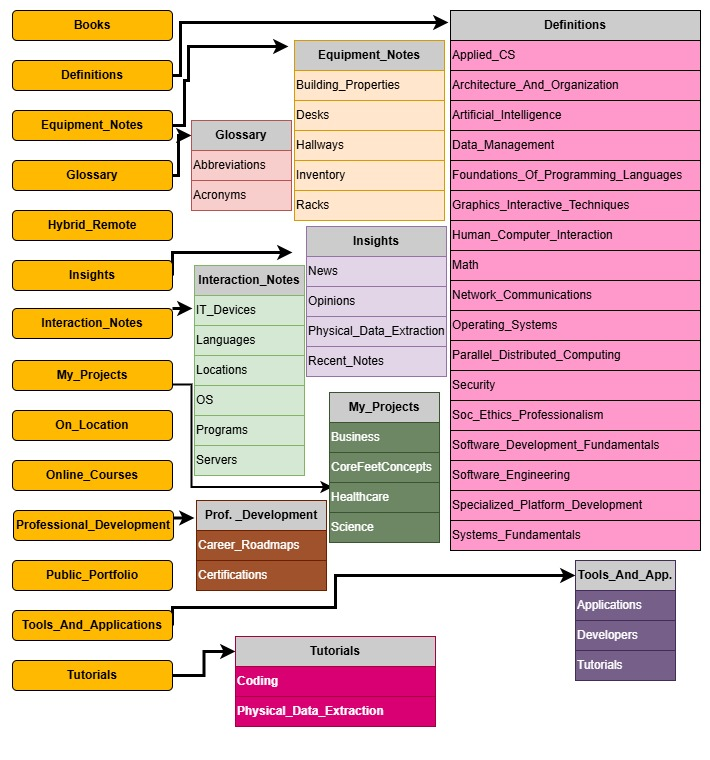
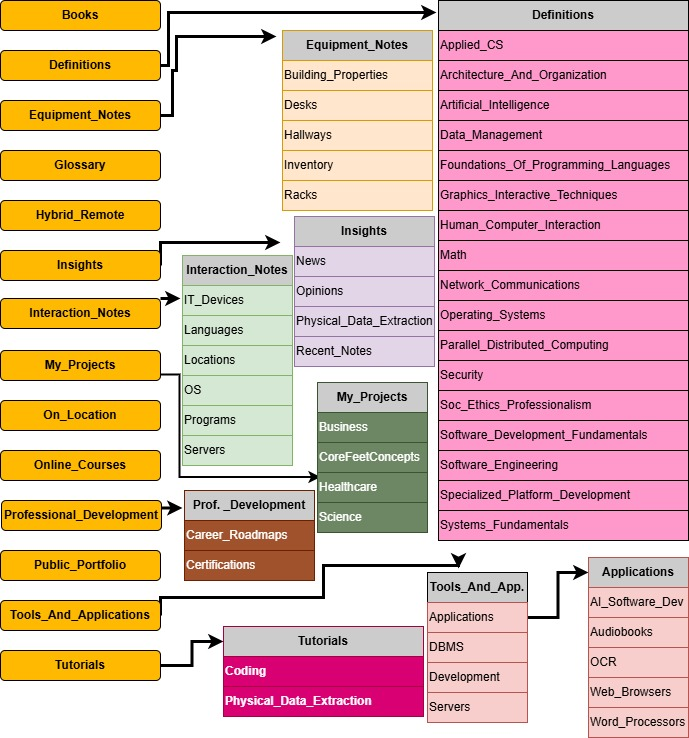
feat: Organize and expand repository structure

diff --git a/Home_Directory_README.md b/Home_Directory_README.md
@@ -16,12 +16,14 @@ This is my centralized knowledge base for computer science, technology, and rela
 
 * **Books:** Long articles, books, and manuals.
 * **Definitions:** Terminology categorized by subject (e.g., Math, Programming).
+* **Developer_Resources:** Central location for larger resource packages (e.g., code samples from books, assets from tutorials) and documentation derived from structured data.
+    * **Documentation:** `Developer_Resources/Documentation` subfolder contains documentation files (Markdown, HTML, PDF) generated from YAML files throughout this knowledge base, optimized for different use cases.
 * **Equipment_Notes:** Notes on hardware, building layouts, and inventory.
-* **SilverFox_Laptop/**: This directory contains all documentation specific to the "SilverFox" laptop.
-    * **Installation_Logs/**: Stores detailed logs of software installations, with each log file linked to its corresponding `.exe` installer.
-    * **OS_Environments/**: Houses specifications for virtual machines and development environments, and can also store `.iso` images of operating systems.
-    * **PATH_Variable_Snapshots/**: Contains snapshots of the `PATH` environment variable, both current and historical, for tracking changes.
-    * **Software_Installers/**: Stores the original installers for all software applications installed on the laptop.
+    * **SilverFox_Laptop**: This directory contains all documentation specific to the "SilverFox" laptop.
+        * **Installation_Logs**: Stores detailed logs of software installations, with each log file linked to its corresponding `.exe` installer.
+        * **OS_Environments**: Houses specifications for virtual machines and development environments, and can also store `.iso` images of operating systems.
+        * **PATH_Variable_Snapshots**: Contains snapshots of the `PATH` environment variable, both current and historical, for tracking changes.
+        * **Software_Installers**: Stores the original installers for all software applications installed on the laptop.
 * **Glossary:** A central glossary for all definitions.
 * **Hybrid_Remote:** Information related to hybrid work and courses.
 * **Insights:** News, opinions, and observations on various topics.
@@ -31,7 +33,11 @@ This is my centralized knowledge base for computer science, technology, and rela
 * **On_Location:** Information related to on-site work.
 * **Professional_Development:** Career planning, goals, and study materials.
 * **Public_Portfolio:** Portfolio and certifications.
-* **Tools_And_Applications:** Software information and tutorials.
+* **Tools_And_Applications:** This section provides information and tutorials related to various software tools and applications used in computer science and related fields. It is organized into the following subcategories:
+    * **Applications:** A categorized list of different software applications designed for specific user tasks (e.g., web browsers, word processors, media software).
+    * **Servers:** Documentation and information on available server software and related technologies.
+    * **Database Management Systems (DBMS):** Information on popular database management systems used for data storage and retrieval.
+    * **Development:** Utility tools and resources commonly used in software development, such as debuggers, command-line interfaces, and version control systems.
 * **Tutorials:** Tutorials on physical data extraction and coding.
 
 ## Scripts

diff --git a/folder_key_index.md b/folder_key_index.md
@@ -65,6 +65,8 @@ Definitions\Software_Engineering: DEFS-SE
 Definitions\Specialized_Platform_Development: DEFS-PLATFORM
 Definitions\Systems_Fundamentals: DEFS-SYS
 Definitions\Systems_Fundamentals\File_Formats: DEFS-SYS-FILES
+Developer_Resources: DEV-RES
+Developer_Resources\Documentation: DEV-RES-DOCS
 Equipment_Notes: EQUIP
 Equipment_Notes\Building_Properties: EQUIP-BUILD
 Equipment_Notes\Building_Properties\Building_A: EQUIP-BUILD-A
@@ -73,6 +75,13 @@ Equipment_Notes\Desks: EQUIP-DESKS
 Equipment_Notes\Hallways: EQUIP-HALLS
 Equipment_Notes\Inventory: EQUIP-INV
 Equipment_Notes\Racks: EQUIP-RACKS
+Equipment_Notes\SilverFox_Laptop: EQUIP-LAPTOP
+Equipment_Notes\SilverFox_Laptop\Installation_Logs: EQUIP-LAPTOP-LOGS
+Equipment_Notes\SilverFox_Laptop\OS_Environments: EQUIP-LAPTOP-OS
+Equipment_Notes\SilverFox_Laptop\OS_Environments\Linux_VM_Debian: EQUIP-LAPTOP-OS-LINUX
+Equipment_Notes\SilverFox_Laptop\OS_Environments\Windows11: EQUIP-LAPTOP-OS-WIN
+Equipment_Notes\SilverFox_Laptop\PATH_Variable_Snapshot: EQUIP-LAPTOP-PATH
+Equipment_Notes\SilverFox_Laptop\Software_Installers: EQUIP-LAPTOP-INSTALL
 Glossary: GLOSS
 Glossary\Abbreviations: GLOSS-ABBR
 Glossary\Acronyms: GLOSS-ACRON
@@ -138,6 +147,7 @@ My_Projects\Business: PROJECTS-BUS
 My_Projects\Healthcare: PROJECTS-HEALTH
 My_Projects\CoreFeetConcepts: PROJECTS-COREFEET
 My_Projects\CoreFeetConcepts\Ideas: PROJECTS-COREFEET-IDEAS
+My_Projects\CoreFeetConcepts\Ideas\CoreFeetConcepts_Video: PROJECTS-COREFEET-IDEAS-VIDEO
 My_Projects\CoreFeetConcepts\Ideas\Future_Scripts: PROJECTS-COREFEET-IDEAS-SCRIPTS
 My_Projects\CoreFeetConcepts\Implemented_Scripts: PROJECTS-COREFEET-SCRIPTS
 My_Projects\CoreFeetConcepts\Implemented_Scripts\Dir_Creation: PROJECTS-COREFEET-SCRIPTS-DIR
@@ -145,6 +155,8 @@ My_Projects\CoreFeetConcepts\Implemented_Structures: PROJECTS-COREFEET-STRUCTS
 My_Projects\CoreFeetConcepts\Implemented_Structures\Activity: PROJECTS-COREFEET-STRUCTS-ACT
 My_Projects\CoreFeetConcepts\Implemented_Structures\Event: PROJECTS-COREFEET-STRUCTS-EVENT
 My_Projects\CoreFeetConcepts\Implemented_Structures\Website: PROJECTS-COREFEET-STRUCTS-WEB
+My_Projects\CoreFeetConcepts\Implemented_Structures\Website\.firebase: PROJECTS-COREFEET-STRUCTS-WEB-FIREBASE
+My_Projects\CoreFeetConcepts\Implemented_Structures\Website\public: PROJECTS-COREFEET-STRUCTS-WEB-PUBLIC
 My_Projects\CoreFeetConcepts\Metadata_Templates: PROJECTS-COREFEET-TEMPLATES
 My_Projects\CoreFeetConcepts\Notes: PROJECTS-COREFEET-NOTES
 My_Projects\CoreFeetConcepts\OS_Environment: PROJECTS-COREFEET-OS
@@ -176,8 +188,12 @@ Tools_And_Applications: TOOLS
 Tools_And_Applications\Applications: TOOLS-APPS
 Tools_And_Applications\Applications\AI_Software_Development: TOOLS-APPS-AI
 Tools_And_Applications\Applications\Audiobooks: TOOLS-APPS-AUDIO
-Tools_And_Applications\Developers: TOOLS-DEVS
-Tools_And_Applications\Tutorials: TOOLS-TUTORIALS
+Tools_And_Applications\Applications\OCR: TOOLS-APPS-OCR
+Tools_And_Applications\Applications\Web_Browsers: TOOLS-APPS-WEB
+Tools_And_Applications\Applications\Word_Processors: TOOLS-APPS-WORD
+Tools_And_Applications\DBMS: TOOLS-DBMS
+Tools_And_Applications\Development: TOOLS-DEV
+Tools_And_Applications\Servers: TOOLS-SERV
 Tutorials: TUTORIALS
 Tutorials\Coding: TUTORIALS-CODING
 Tutorials\Coding\C: TUTORIALS-CODING-C
